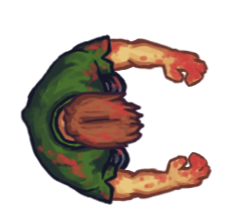
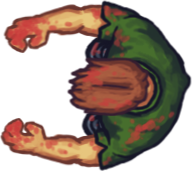
Game mostly finished!

diff --git a/game.cpp b/game.cpp
@@ -1,10 +1,11 @@
 #include <iostream>
 #include <SDL2/SDL.h>
 #include <SDL2_image/SDL_image.h>
-#include <random>
 #include <thread>
-#include <chrono>
 #define RNG rand()%(wlength-eSpriteH)
+#define eBoundR wlength-eSpriteH
+#define ENEMY_MAX 3
+#define BULLET_MAX 5
 
 using namespace std;
 
@@ -18,6 +19,9 @@ public:
             SDL_Texture* tex = SDL_CreateTextureFromSurface(render,tmp);
             SDL_FreeSurface(tmp);
             return tex;
+        } else {
+            cerr << SDL_GetError() << endl;
+            exit(2);
         }
     }
 };
@@ -25,52 +29,48 @@ public:
 class Objects{
 private:
     SDL_Texture* objTex;
-    SDL_Rect startR, destR;
+    SDL_Rect texR;
     SDL_Renderer* rend;
     SDL_Event pEvent;
-    int orient = 1; // Sprite orientaton flag. Sprites are "facing right" by default, start from there, by clockwise, R=1, D=2, L=3, U=4.
-
 
 public:
     Objects(const char* oTexFile, SDL_Renderer* tgtrender, int texh, int texw, int texx, int texy) {
         rend = tgtrender;
         objTex = Textures::texLoader(oTexFile,rend);
-        startR.h = texh; destR.h = texh;
-        startR.w = texw; destR.w = texw;
-        startR.x = texx; startR.y = texy;
+        if (objTex==nullptr) {
+            cerr<<"no textures."<<endl;
+        }
+        texR.h = texh; texR.w = texw;
+        texR.x = texx; texR.y = texy;
     }
     ~Objects(){};
 
     SDL_Texture *getObjTex() const { return objTex; };
 
-    const SDL_Rect &getStartR() const { return startR; }
-
-    const SDL_Rect &getDestR() const { return destR; }
+    const SDL_Rect &getStartR() const { return texR; }
 
 
-    void enemyposUpdate() {
-        enemyPosCalc();
+    void enemyposUpdate(int enemyspd) {
+        objPosCalc(true, enemyspd);
+    }
+
+    void bulletposUpdate(int bulletspd) {
+        objPosCalc(false, bulletspd);
     }
 
     void posRender() {
-            SDL_RenderCopy(rend, objTex, NULL, &startR);
+            SDL_RenderCopy(rend, objTex, NULL, &texR);
     }
 
-    void playerPosCalc(SDL_Event onEvent, int movstep) {
+    void playerPosCalc(SDL_Event onEvent, int movstep, int windowlength) {
             pEvent = onEvent;
             if (pEvent.type==SDL_KEYDOWN) {
                 switch (pEvent.key.keysym.sym) {
-                    case SDLK_w:
-                        startR.y-=movstep;
+                    case SDLK_UP:
+                        if (texR.y>4) texR.y-=movstep;
                         break;
-                    case SDLK_a:
-                        startR.x-=movstep;
-                        break;
-                    case SDLK_d:
-                        startR.x+=movstep;
-                        break;
-                    case SDLK_s:
-                        startR.y+=movstep;
+                    case SDLK_DOWN:
+                        if (texR.y<windowlength-texR.h) texR.y+=movstep;
                         break;
                     default:
                         break;
@@ -79,14 +79,15 @@ public:
 
     }
 
-    void enemyPosCalc() {
-
+    void objPosCalc(bool LRflag, int movstep) {
+        if (LRflag) { texR.x-=movstep; }
+        else { texR.x+=movstep; }
     }
 
     bool collision(Objects p) {
         SDL_Rect pRect = p.getStartR();
-        if (startR.x+startR.w < pRect.x || startR.x > pRect.x+pRect.w) return false;
-        if (startR.y+startR.h < pRect.y || startR.y > pRect.y+pRect.h) return false;
+        if (texR.x+texR.w < pRect.x || texR.x > pRect.x+pRect.w) return false;
+        if (texR.y+texR.h < pRect.y || texR.y > pRect.y+pRect.h) return false;
 
         return true;
     }
@@ -98,22 +99,22 @@ private:
     int wlength;
     string wTitle;
     bool gRun;
-    const int pMovStep = 4;
+    const int pMovStep = 7;
     const float pFramespeed = pMovStep/60;
 
     SDL_Window *window;
     SDL_Texture *bkgnd;
     Objects* player;
-    Objects* enemy[5];
-    Objects* bullet[3];
+    Objects* enemy[ENEMY_MAX];
+    Objects* bullet[BULLET_MAX];
     SDL_Renderer *mRenderer;
 
-    const int pSpriteW = 62;
-    const int pSpriteH = 40;
-    const int eSpriteW = 48;
-    const int eSpriteH = 44;
+    const int pSpriteW = 52;
+    const int pSpriteH = 31;
+    const int eSpriteW = 39;
+    const int eSpriteH = 34;
 
-    int lives = 3;
+    int lives = true;
     int score = 0;
 public:
     MainGame() {};
@@ -130,27 +131,45 @@ public:
             default:
                 break;
         }
-        player->playerPosCalc(gameEvent, pMovStep);
+        player->playerPosCalc(gameEvent, pMovStep, wlength);
+        if (gameEvent.type==SDL_KEYDOWN) {
+            if (gameEvent.key.keysym.sym==SDLK_SPACE) {
+                playerShoot();
+            }
+        }
     }
 
     void whenPlayerCollide() {
         player->~Objects();
-        lives--;
-        cout << "Zombie encountered, current life remaining: " << lives << endl;
-        if (lives < 0) {
-            cout << "You have ran out your luck today! Better luck next time!\nGame Over" << endl;
-            this_thread::sleep_until(chrono::system_clock::now() + chrono::seconds(2));
-            gRun = false;
-        } else {
-            player = new Objects("assets/player_idle.png", mRenderer, pSpriteH, pSpriteW, ((wlength-pSpriteW)/2), ((wlength-pSpriteH)/2));
-        }
+        lives = false;
+        cout << "You have ran out your luck today! Better luck next time!\nGame Over, Your kill count is: "<< score << endl;
+        this_thread::sleep_until(chrono::system_clock::now() + chrono::seconds(2));
+        gRun = false;
     }
 
-    void whenBulletCollide() {
+    void playerShoot() {
+        for (int i = 0; i < BULLET_MAX; ++i) {
+            if (bullet[i] == NULL) {
+                bullet[i] = new Objects("assets/bullet.png",mRenderer,6,6,(player->getStartR().x+player->getStartR().w),(player->getStartR().y+21));
+                break;
+            }
+        }
+
+    }
+
+    void whenBulletCollide(int bulletIndex, int enemyIndex) {
+        score++;
+        bullet[bulletIndex]->~Objects();
+        bullet[bulletIndex] = NULL;
+        enemy[enemyIndex]->~Objects();
+        enemy[enemyIndex] = NULL;
+        enemy[enemyIndex] = new Objects("assets/zombie_idle.png", mRenderer, eSpriteH, eSpriteW, eBoundR, RNG);
 
     }
 
     void gameInit(string title, int length) {
+        for ( auto &i : enemy ) i = NULL;
+        for ( auto &i : bullet ) i = NULL;
         wTitle = title;
         wlength = length;
         srand(time(0));
@@ -189,17 +208,12 @@ public:
     }
 
     void psRender() {
-        player = new Objects("assets/player_idle.png", mRenderer, pSpriteH, pSpriteW, ((wlength-pSpriteW)/2), ((wlength-pSpriteH)/2));
+        player = new Objects("assets/player_idle.png", mRenderer, pSpriteH, pSpriteW, 0, ((wlength-pSpriteH)/2));
     }
 
     void esRender() {
-        enemy[0] = new Objects("assets/zombie_idle.png", mRenderer, eSpriteH, eSpriteW, RNG, RNG);
-        enemy[1] = new Objects("assets/zombie_idle.png", mRenderer, eSpriteH, eSpriteW, RNG, RNG);
-        enemy[2] = new Objects("assets/zombie_idle.png", mRenderer, eSpriteH, eSpriteW, RNG, RNG);
-        enemy[3] = new Objects("assets/zombie_idle.png", mRenderer, eSpriteH, eSpriteW, RNG, RNG);
-        enemy[4] = new Objects("assets/zombie_idle.png", mRenderer, eSpriteH, eSpriteW, RNG, RNG);
-        for (int i = 0; i < 5; ++i) {
-            enemy[i]->enemyposUpdate();
+        for (int i = 0; i < ENEMY_MAX; ++i) {
+            enemy[i] = new Objects("assets/zombie_idle.png", mRenderer, eSpriteH, eSpriteW, eBoundR, RNG);
         }
     }
     void gameRender() {
@@ -208,9 +222,19 @@ public:
         if (player->getObjTex()) {
             player->posRender();
         }
-        for (int i = 0; i < 5; ++i) {
-            if (enemy[i]->getObjTex()) enemy[i]->posRender();
-            if (enemy[i]->collision(*player)) whenPlayerCollide();
+        for (auto &i : enemy) {
+            i->enemyposUpdate(1);
+            if (i->getObjTex()) i->posRender();
+            if (i->collision(*player) || i->getStartR().x<0) whenPlayerCollide();
+        }
+        for (int j = 0; j < BULLET_MAX; ++j) {
+            if (bullet[j]!=NULL && bullet[j]->getObjTex()) {
+                bullet[j]->bulletposUpdate(4);
+                bullet[j]->posRender();
+            }
+            for (int i = 0; i < ENEMY_MAX; ++i) {
+                if (bullet[j]!=NULL && bullet[j]->collision(*enemy[i])) whenBulletCollide(j, i);
+            }
         }
         SDL_RenderPresent(mRenderer);
     }
@@ -218,6 +242,7 @@ public:
     void spriteUpdater() {}
 
     void gameExit() {
+        SDL_DestroyTexture(bkgnd);
         SDL_DestroyRenderer(mRenderer);
         SDL_DestroyWindow(window);
         SDL_Quit();
@@ -231,7 +256,7 @@ public:
 int main () {
     MainGame *game = nullptr;
     string gTitle = "Zombiroid";
-    int length = 800;
+    int length = 400;
     game = new MainGame();
 
 
